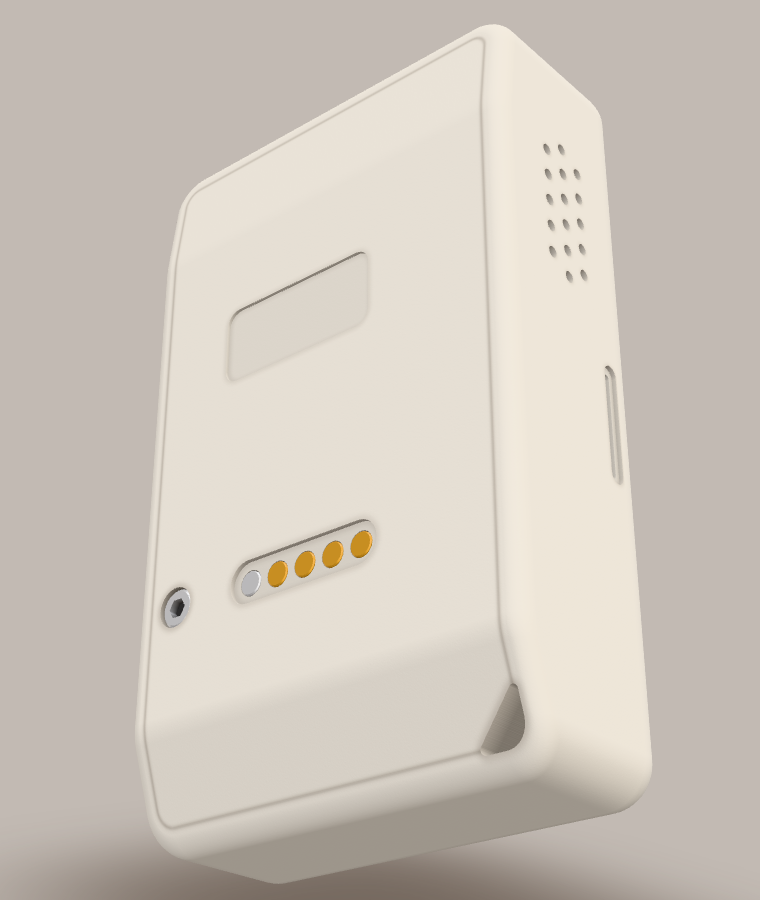
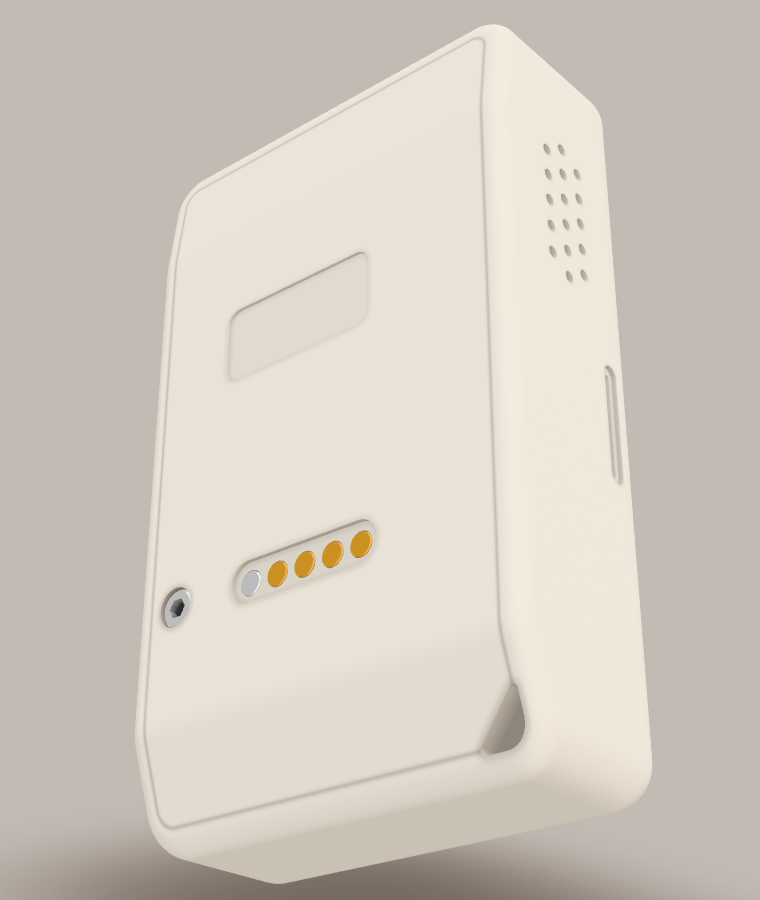
3D device model rebuilt as a lofted, filleted body with real side and back details; UI review still in progress

Changed region(s): [[0.2118, 0.84, 0.8474, 0.9956], [0.2118, 0.6533, 0.2421, 0.6844]]

diff --git a/web/src/components/Device3D.tsx b/web/src/components/Device3D.tsx
@@ -512,7 +512,7 @@ function Scene({ device, input, painter, storePose, tiltLink, onPose, resetSigna
   };
 
   // ---- debug hook (headless verification): only with ?debug in the URL
-  const view = useRef<{ elevation: number; distance: number | null; fov: number; rotation: [number, number, number] | null; position: [number, number, number] | null; offsetY: number }>({ elevation: CAMERA_ELEVATION, distance: null, fov: CAMERA_FOV, rotation: null, position: null, offsetY: 0 });
+  const view = useRef<{ elevation: number; distance: number | null; fov: number; rotation: [number, number, number] | null; position: [number, number, number] | null; offsetY: number; shadow: boolean }>({ elevation: CAMERA_ELEVATION, distance: null, fov: CAMERA_FOV, rotation: null, position: null, offsetY: 0, shadow: true });
   const frameMs = useRef<number[]>([]);
   useEffect(() => {
     if (!new URLSearchParams(location.search).has('debug')) return;
@@ -556,7 +556,8 @@ function Scene({ device, input, painter, storePose, tiltLink, onPose, resetSigna
         invalidate();
       },
       /** Extras for scripts/model-shots.mjs. */
-      setViewDebug: (v: { elevationDeg?: number; distance?: number | null; fovDeg?: number; zoom?: number; rotationZXY?: [number, number, number] | null; position?: [number, number, number] | null; offsetY?: number }) => {
+      setViewDebug: (v: { elevationDeg?: number; distance?: number | null; fovDeg?: number; zoom?: number; rotationZXY?: [number, number, number] | null; position?: [number, number, number] | null; offsetY?: number; shadow?: boolean }) => {
+        if (v.shadow !== undefined) view.current.shadow = v.shadow; // ground shadow on/off (silhouette comparisons)
         if (v.position !== undefined) view.current.position = v.position; // model position override (mm)
         if (v.offsetY !== undefined) view.current.offsetY = v.offsetY; // look-at point, as a fraction of the body height below the centre
         if (v.rotationZXY !== undefined) view.current.rotation = v.rotationZXY; // radians about X, Y, Z, applied as Rz*Rx*Ry; null = follow the pose
@@ -618,6 +619,7 @@ function Scene({ device, input, painter, storePose, tiltLink, onPose, resetSigna
       // ground shadow follows the footprint
       const sh = shadowMesh.current;
       if (sh) {
+        sh.visible = view.current.shadow;
         g.updateMatrix();
         const f = footprint(g.matrix.elements, D);
         const groundY = -(D.hh + GROUND_GAP_MM);

diff --git a/web/src/device3d/studio.ts b/web/src/device3d/studio.ts
@@ -12,7 +12,7 @@
  *   top    overhead strip (lights the top face, draws the top fillets)
  *   rims   two tall strips behind, left and right (edge light on the walls,
  *          so no wall ever sinks into the page colour)
- *   floor  weak bounce in the page colour from below
+ *   floor  bounce from below, a light version of the page colour
  *   sheen  seen by the glossy parts only: a soft panel off to the right
  */
 import { BackSide, BoxGeometry, Color, DoubleSide, Mesh, MeshBasicMaterial, PlaneGeometry, PMREMGenerator, Scene, type Texture, type WebGLRenderer } from 'three';
@@ -32,11 +32,11 @@ export const STUDIO: { room: string; roomPower: number; panels: Panel[] } = {
   panels: [
     { pos: [6, 7, 7], size: [7, 7], colour: '#fffaf3', power: 5.8 }, // key
     { pos: [-8.5, 1.5, 4.5], size: [6, 9], colour: '#f4f6ff', power: 1.65 }, // fill
-    { pos: [0, 1, 11], size: [16, 12], colour: '#fffdfa', power: 1.2, mirrored: false }, // front
+    { pos: [0, -1, 11], size: [16, 17], colour: '#fffdfa', power: 1.25, mirrored: false }, // front (reaches low: faces tilted downwards must not sink into the page colour)
     { pos: [0, 10, -1], size: [9, 5], colour: '#ffffff', power: 3.4 }, // top
     { pos: [-8.5, 2, -6], size: [2.4, 11], colour: '#fff7ec', power: 5.0 }, // rim left
     { pos: [8.5, 2, -6.5], size: [2.4, 11], colour: '#f4f6ff', power: 5.0 }, // rim right
-    { pos: [0, -7, 1], size: [18, 18], colour: '#c2bab3', power: 0.6, mirrored: false }, // floor bounce (the page colour)
+    { pos: [0, -7, 1], size: [18, 18], colour: '#d9d3cd', power: 1.05, mirrored: false }, // floor bounce (a light version of the page colour)
     { pos: [9, 2, 6.5], size: [5, 9], colour: '#ffffff', power: 1.6, mirrored: 'only' }, // sheen: what the glass shows when the device is turned a little
   ],
 };

diff --git a/web/src/App.tsx b/web/src/App.tsx
@@ -244,8 +244,8 @@ function DeskShell() {
   const hide = (id: PanelId) => t('panel.hide', { panel: t(id === 'bench' ? 'nav.bench' : 'nav.console') });
 
   return (
-    <div className="flex h-full min-h-0 flex-col" data-layout={layout} data-testid="desk-root">
-      <a className="skip-link btn btn-primary" href="#device">
+    <div className="flex h-full min-h-0 flex-col [overflow:clip]" data-layout={layout} data-testid="desk-root">
+      <a className="skip-link btn btn-primary" href="#device" data-layer="skip">
         {t('nav.skip')}
       </a>
       <TopBar />
@@ -281,7 +281,7 @@ function PhoneShell() {
   const [inset, setInset] = useState({ px: 96, animate: false });
   const onInset = useCallback((px: number, animate: boolean) => setInset((cur) => (cur.px === px && cur.animate === animate ? cur : { px, animate })), []);
   return (
-    <main className={`relative flex h-full min-h-0 overflow-hidden ${land ? 'flex-row' : 'flex-col'}`} data-testid="phone-root" data-layout={layout}>
+    <main className={`relative flex h-full min-h-0 [overflow:clip] ${land ? 'flex-row' : 'flex-col'}`} data-testid="phone-root" data-layout={layout}>
       <div
         className="flex min-h-0 min-w-0 flex-1 flex-col"
         style={land ? undefined : { paddingBottom: `calc(${inset.px}px + env(safe-area-inset-bottom))`, transition: inset.animate ? 'padding-bottom var(--dur) var(--ease)' : 'none' }}

diff --git a/web/src/components/Sheet.tsx b/web/src/components/Sheet.tsx
@@ -209,7 +209,7 @@ export function Sheet({ landscape, onInset }: { landscape: boolean; onInset(px: 
       data-layer="sheet"
       className="absolute inset-x-0 bottom-0 z-40 flex min-h-0 flex-col rounded-t-3xl bg-card shadow-[0_-6px_24px_rgba(40,25,10,0.14)]"
       style={{
-        height: `min(calc(${height}px + env(safe-area-inset-bottom)), calc(100dvh - env(safe-area-inset-top) - 8px))`,
+        height: `min(calc(${height}px + env(safe-area-inset-bottom)), calc(100dvh - env(safe-area-inset-top) - 32px))`,
         paddingBottom: 'env(safe-area-inset-bottom)',
         transition: drag === null ? 'height var(--dur) var(--ease)' : 'none',
       }}

diff --git a/web/src/lib/sheet.ts b/web/src/lib/sheet.ts
@@ -4,7 +4,7 @@ export type Detent = 'peek' | 'half' | 'full';
 export const PEEK_PX = 72;
 
 export function detentHeights(vh: number): Record<Detent, number> {
-  return { peek: PEEK_PX, half: Math.max(300, Math.round(vh * 0.5)), full: Math.max(320, vh - 16) };
+  return { peek: PEEK_PX, half: Math.max(300, Math.round(vh * 0.5)), full: Math.max(320, vh - 40) };
 }
 
 /** Nearest detent to a dragged height; a quick flick (px/ms, negative = upwards) goes one step further in its direction. */

diff --git a/web/src/index.css b/web/src/index.css
@@ -310,6 +310,8 @@
   @media (pointer: coarse) {
     button.pill {
       height: 44px;
+      min-width: 44px;
+      justify-content: center;
     }
   }
   button.pill:hover {

diff --git a/web/public/device/MODEL.md b/web/public/device/MODEL.md
@@ -59,8 +59,10 @@ front face to the bottom facet of the back).
   contact shadows around the controls, the seams and the back cover's hairline
   are painted once into the UV sheet (`src/device3d/textures.ts`).
 - Light: a small studio (key softbox upper right, fill left, front panel, top
-  strip, two rim strips, floor bounce in the page colour) rendered once into a
-  prefiltered environment map (`src/device3d/studio.ts`). Neutral tone mapping.
+  strip, two rim strips, a light floor bounce) rendered once into a prefiltered
+  environment map (`src/device3d/studio.ts`). The glass and the side window
+  mirror a second, darker version of the same studio, so the picture keeps its
+  blacks. Neutral tone mapping.
   No shadow maps, no post-processing. A soft blob follows the footprint on the
   ground.
 
